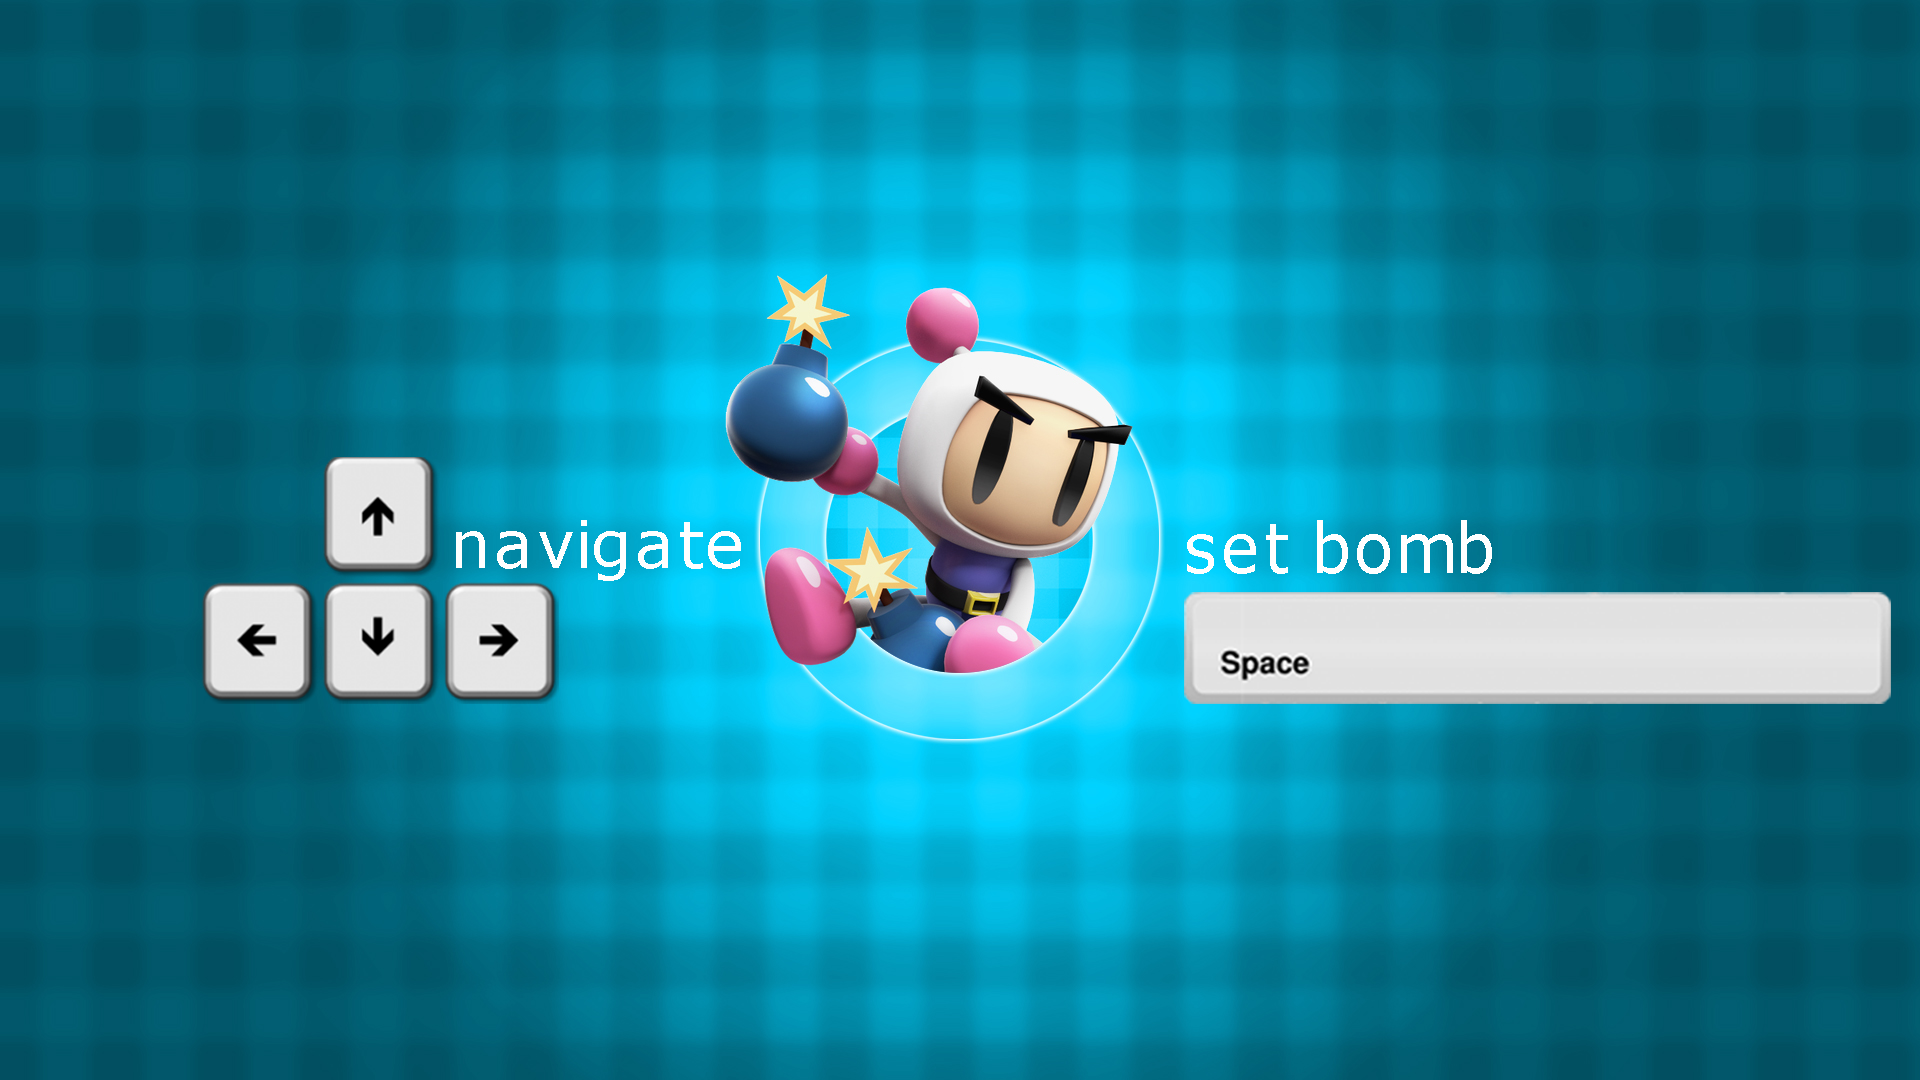
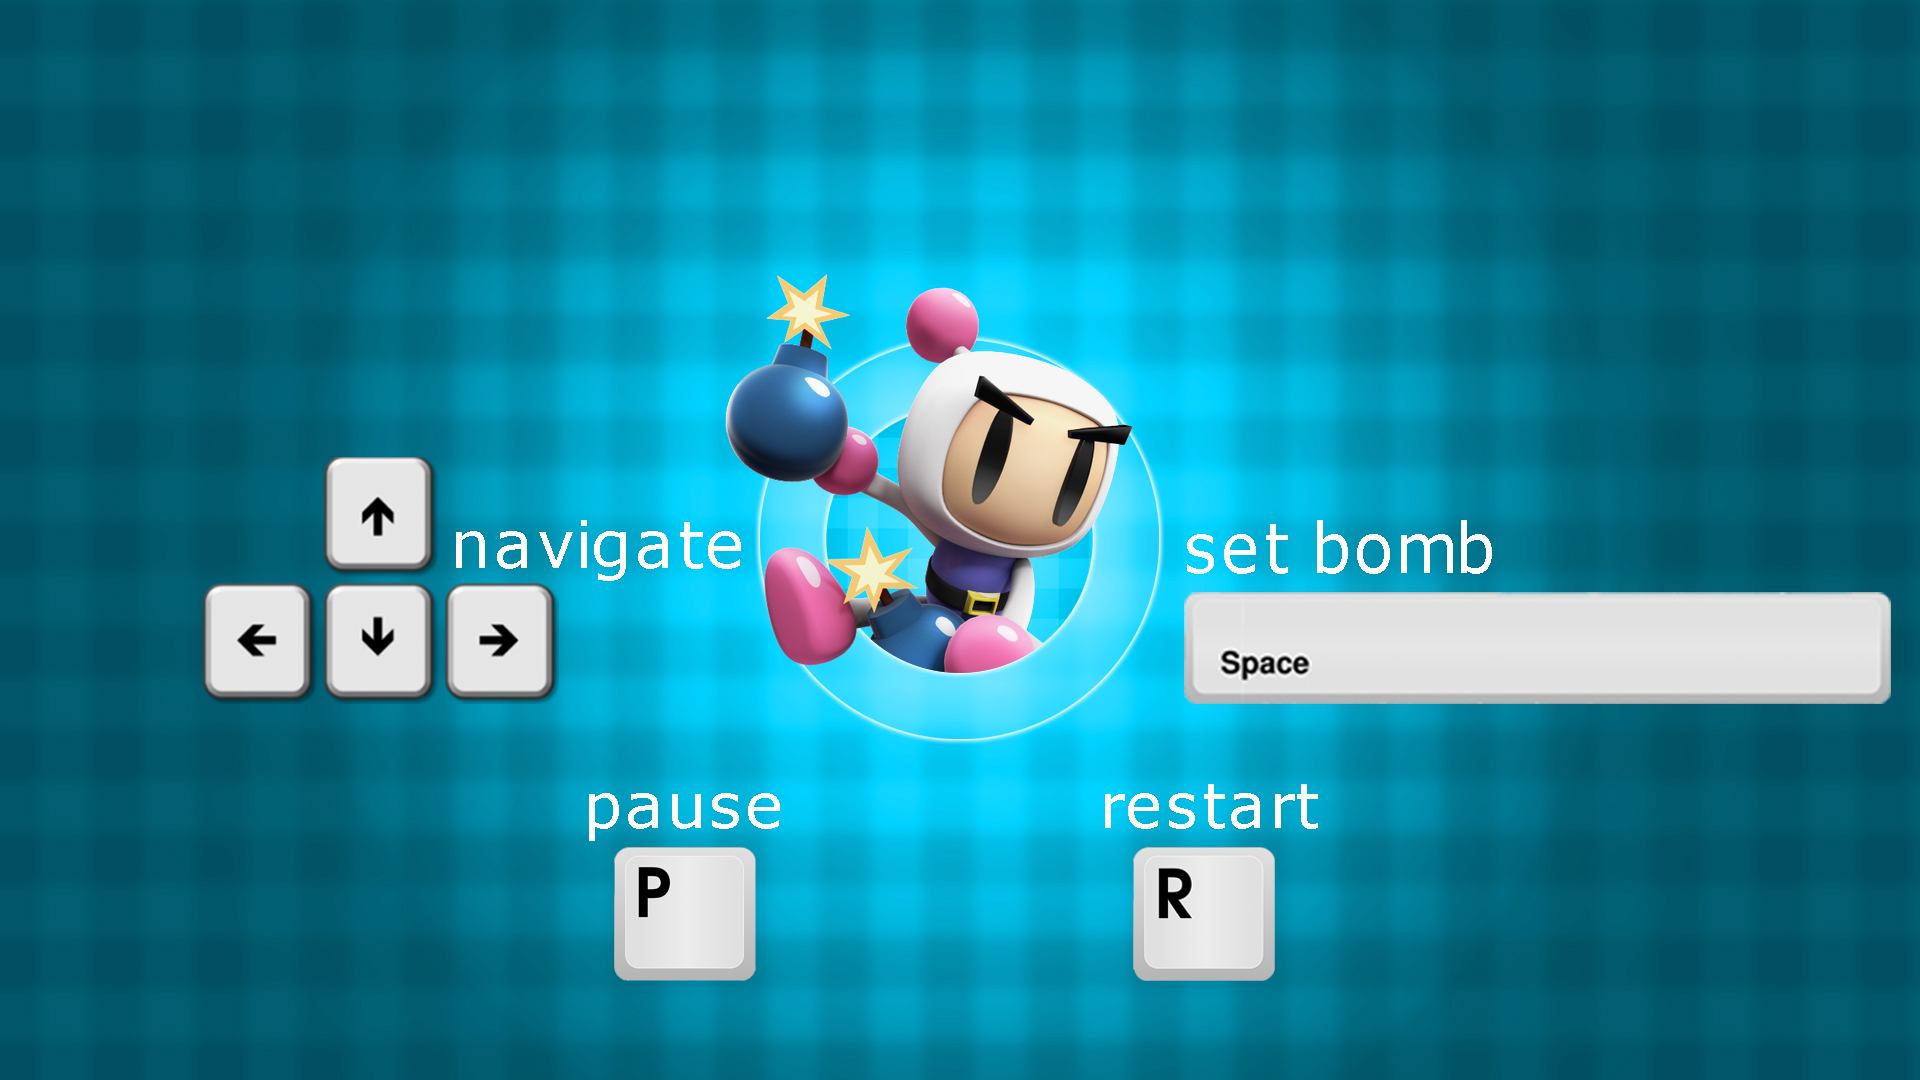
pause nad restart added

Changed region(s): [[0.5625, 0.7333, 0.6875, 0.9167], [0.2812, 0.7333, 0.4062, 0.9167]]

diff --git a/game.js b/game.js
@@ -1,5 +1,6 @@
 let size = 15;
 let gameLost = false;
+let gamePaused = false;
 
 let gameWon = () => {
     return enemiesDead() && doorEntered()
@@ -43,6 +44,17 @@ let bombAvailable = () => {
         }
     }
     return true;
+};
+
+const startGame = () => {
+        let enemiesInterval = setInterval(moveEnemies, 800);
+        gamePaused = false;
+        return enemiesInterval;
+};
+
+const stopGame = (enemiesInterval) => {
+        clearInterval(enemiesInterval);
+        gamePaused = true;
 };
 
 const getRandomInt = (max) => Math.floor(Math.random() * (Math.floor(max) + 1));
@@ -208,15 +220,8 @@ const setBomb = (block) => {
     }
 };
 
-document.addEventListener("keydown", (event) =>
-    event.which === 39 ? moveRight(document.getElementsByClassName("bomberman")[0]) :
-        event.which === 37 ? moveLeft(document.getElementsByClassName("bomberman")[0]) :
-            event.which === 38 ? moveUp(document.getElementsByClassName("bomberman")[0]) :
-                event.which === 40 ? moveDown(document.getElementsByClassName("bomberman")[0]) :
-                    event.which === 32 ? setBomb(document.getElementsByClassName("bomberman")[0]) : {}
-);
 
-const startGame = () => {
+window.onload = () => {
     document.getElementById("field").style.display = "none";
     let startButton = document.getElementsByClassName("options__start-button")[0];
 
@@ -225,7 +230,19 @@ const startGame = () => {
         document.getElementById("field").style.display = "";
 
         generateField(size);
-        setInterval(moveEnemies, 800);
+
+        let enemiesInterval = setInterval(moveEnemies, 800);
+
+        document.addEventListener("keydown", (event) =>
+            event.which === 39 && !gamePaused ? moveRight(document.getElementsByClassName("bomberman")[0]) :
+                event.which === 37 && !gamePaused ? moveLeft(document.getElementsByClassName("bomberman")[0]) :
+                    event.which === 38 && !gamePaused ? moveUp(document.getElementsByClassName("bomberman")[0]) :
+                        event.which === 40 && !gamePaused ? moveDown(document.getElementsByClassName("bomberman")[0]) :
+                            event.which === 32 && !gamePaused ? setBomb(document.getElementsByClassName("bomberman")[0]) :
+                                event.which === 80 && gamePaused ? enemiesInterval = startGame(): event.which === 80 && !gamePaused ? stopGame(enemiesInterval):
+                                    event.which === 82 ? window.location.reload() : {}
+                                );
+
         setInterval(function () {
             if (gameWon()) {
                 window.location.reload();
@@ -235,8 +252,6 @@ const startGame = () => {
                 window.location.reload();
                 alert("You lost!");
             }}, 100);
-        };
     };
-window.onload = () => {
-    startGame();
+
 };

diff --git a/README.md b/README.md
@@ -14,12 +14,9 @@
   5. Реалізація руху ворогів
   6. Реалізація бомби та її вибуху з руйнуванням стін та ворогів біля неї
   7. Реалізація прихованих дверей
-<<<<<<< HEAD
   8. Завершення стилізації гри та виправлення дрібних помилок
-=======
-  8. Реалізація можливості перезавантажити гру
+  8. Реалізація можливості перезавантажити гру та поставити на паузу
   9. Завершення стилізації гри та виправлення дрібних помилок
->>>>>>> 3e73dac02a4043021bf3bdf4088237f6d1172e67
   
 ### Ціль до наступного етапу
   1. Створення HTML структури
@@ -39,8 +36,8 @@
   6. Реалізація бомби та її вибуху з руйнуванням стін та ворогів біля неї
   #### Подальші плани:
   7. Реалізація прихованих дверей
-<<<<<<< HEAD
-  8. Завершення стилізації гри та виправлення дрібних помилок
+  8. Реалізація можливості перезавантажити гру та поставити на паузу
+  9. Завершення стилізації гри та виправлення дрібних помилок
 
 ## 3 Етап
 ### Звіт по поставлених цілях
@@ -53,8 +50,5 @@
   5. Реалізація руху ворогів
   6. Реалізація бомби та її вибуху з руйнуванням стін та ворогів біля неї
   7. Реалізація прихованих дверей
-  8. Завершення стилізації гри та виправлення дрібних помилок
-=======
-  8. Реалізація можливості перезавантажити гру
+  8. Реалізація можливості перезавантажити гру та поставити на паузу
   9. Завершення стилізації гри та виправлення дрібних помилок
->>>>>>> 3e73dac02a4043021bf3bdf4088237f6d1172e67
